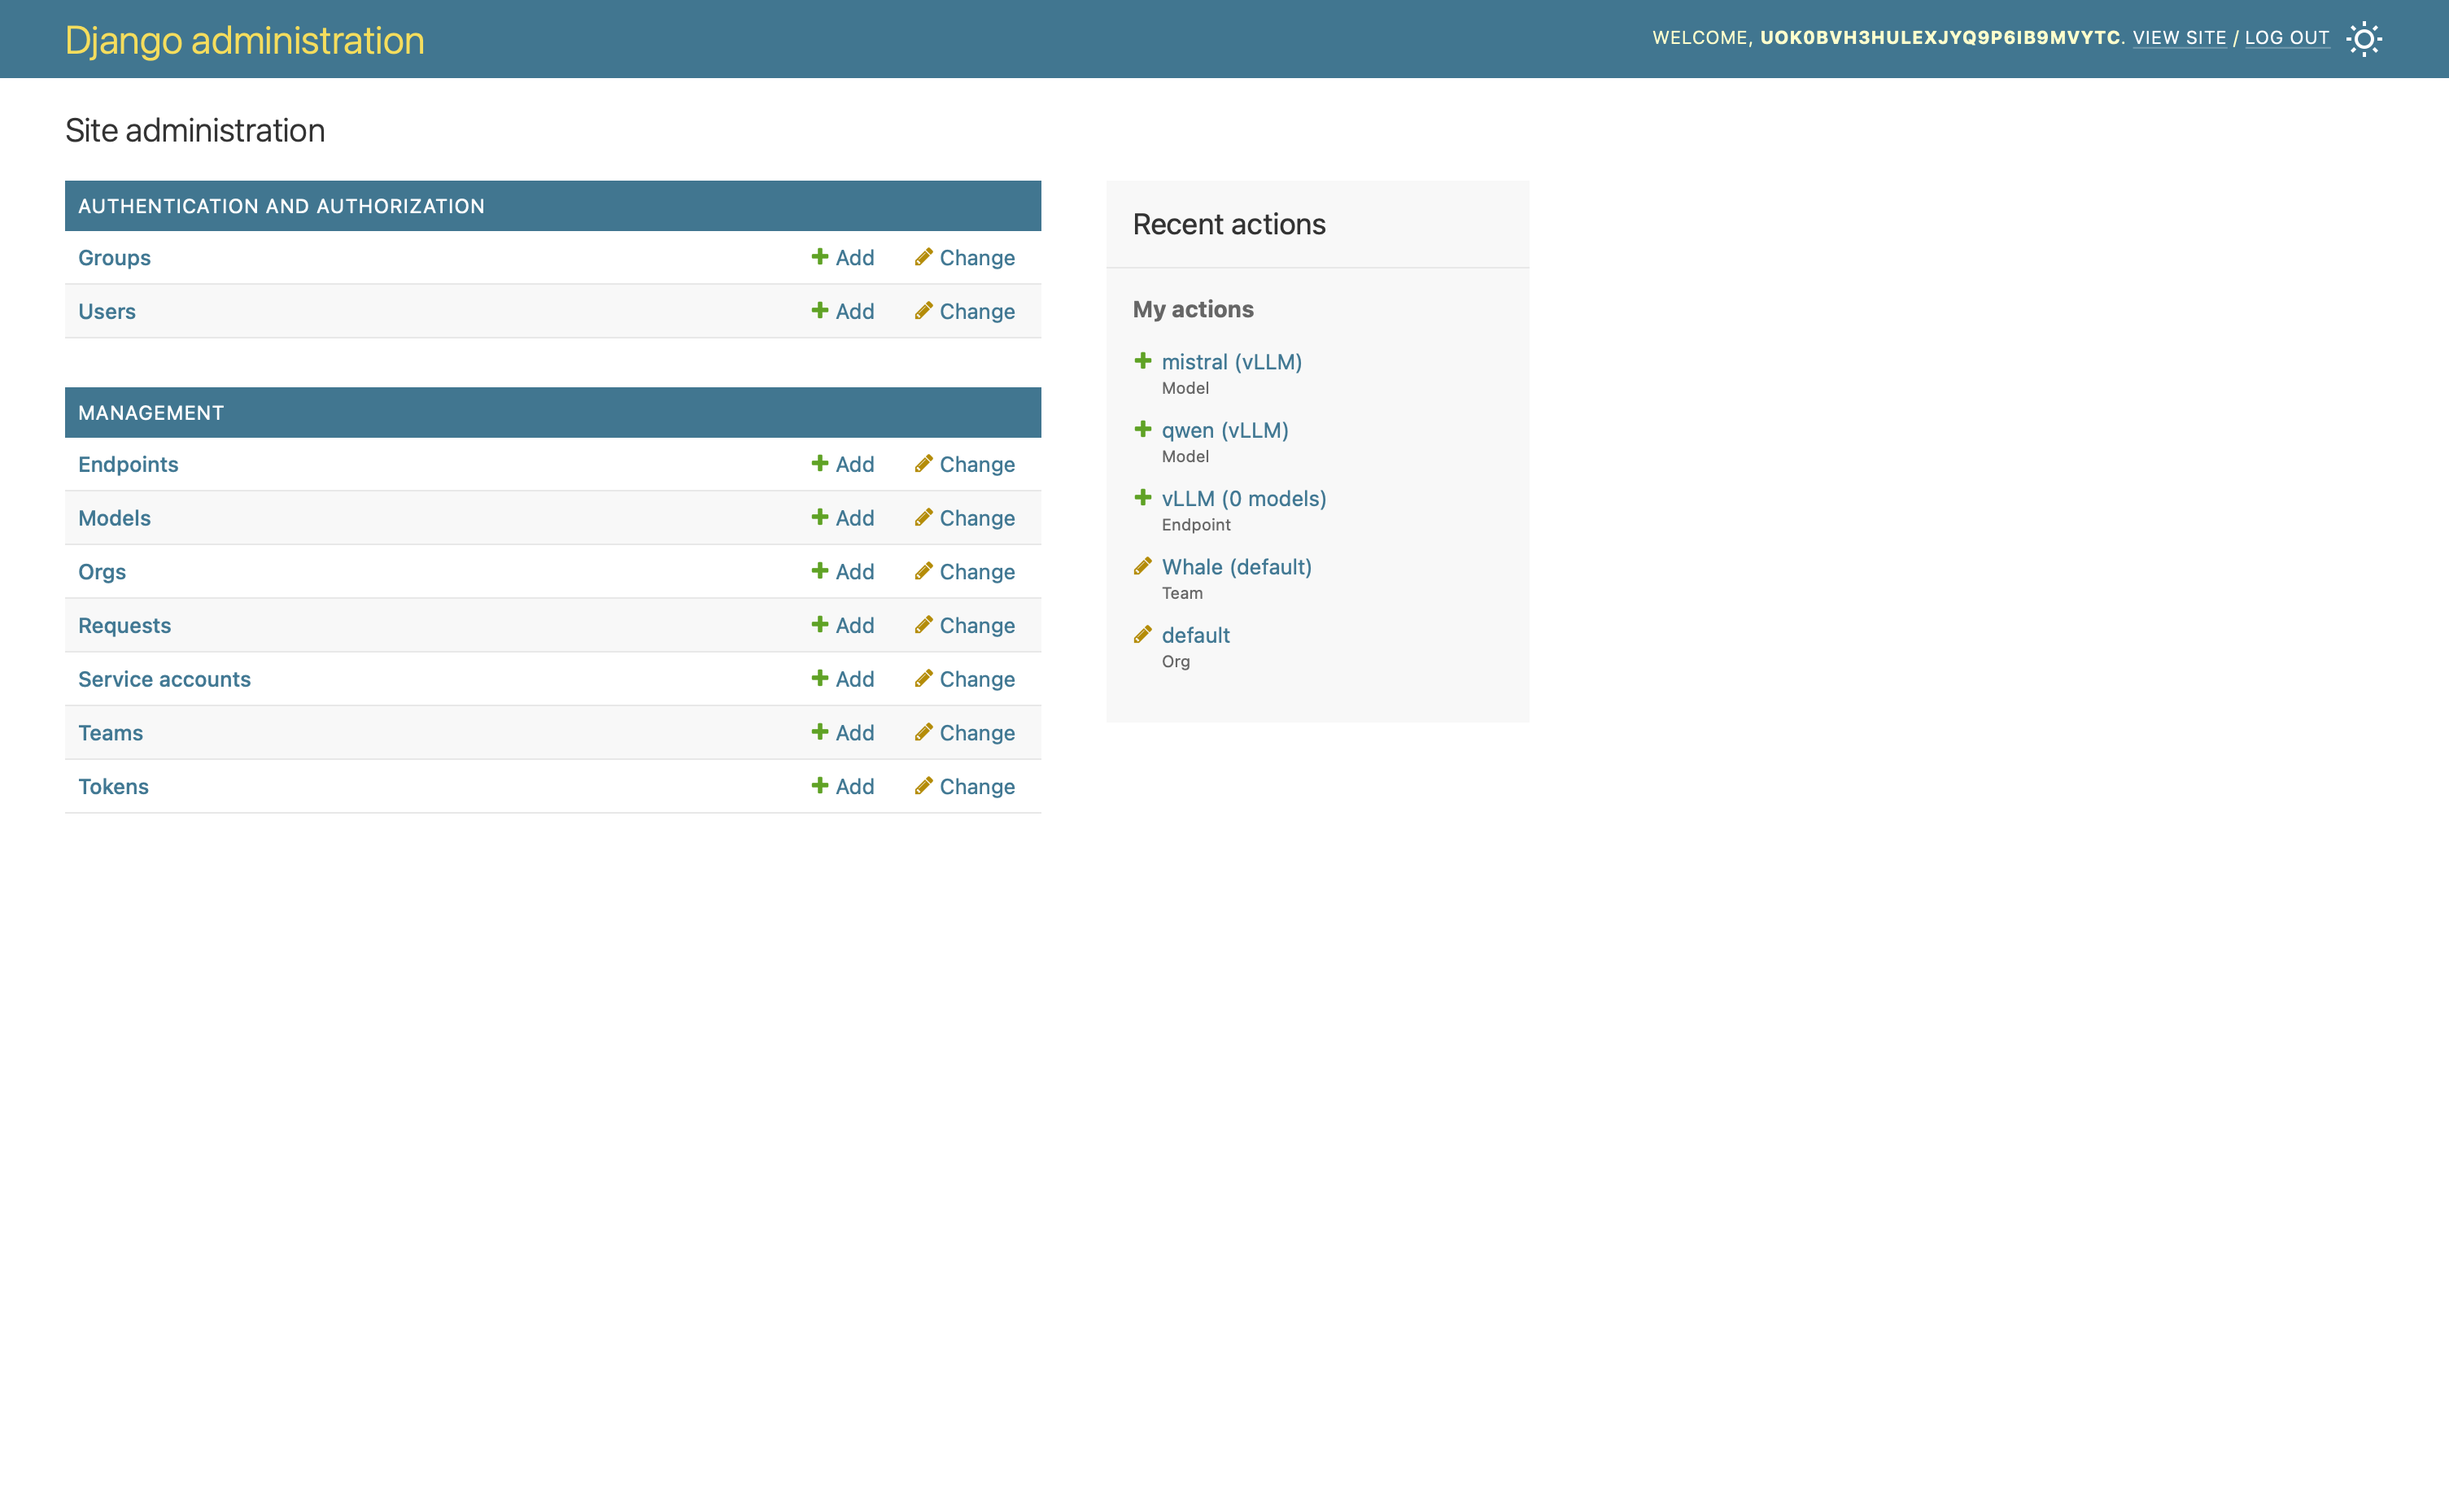
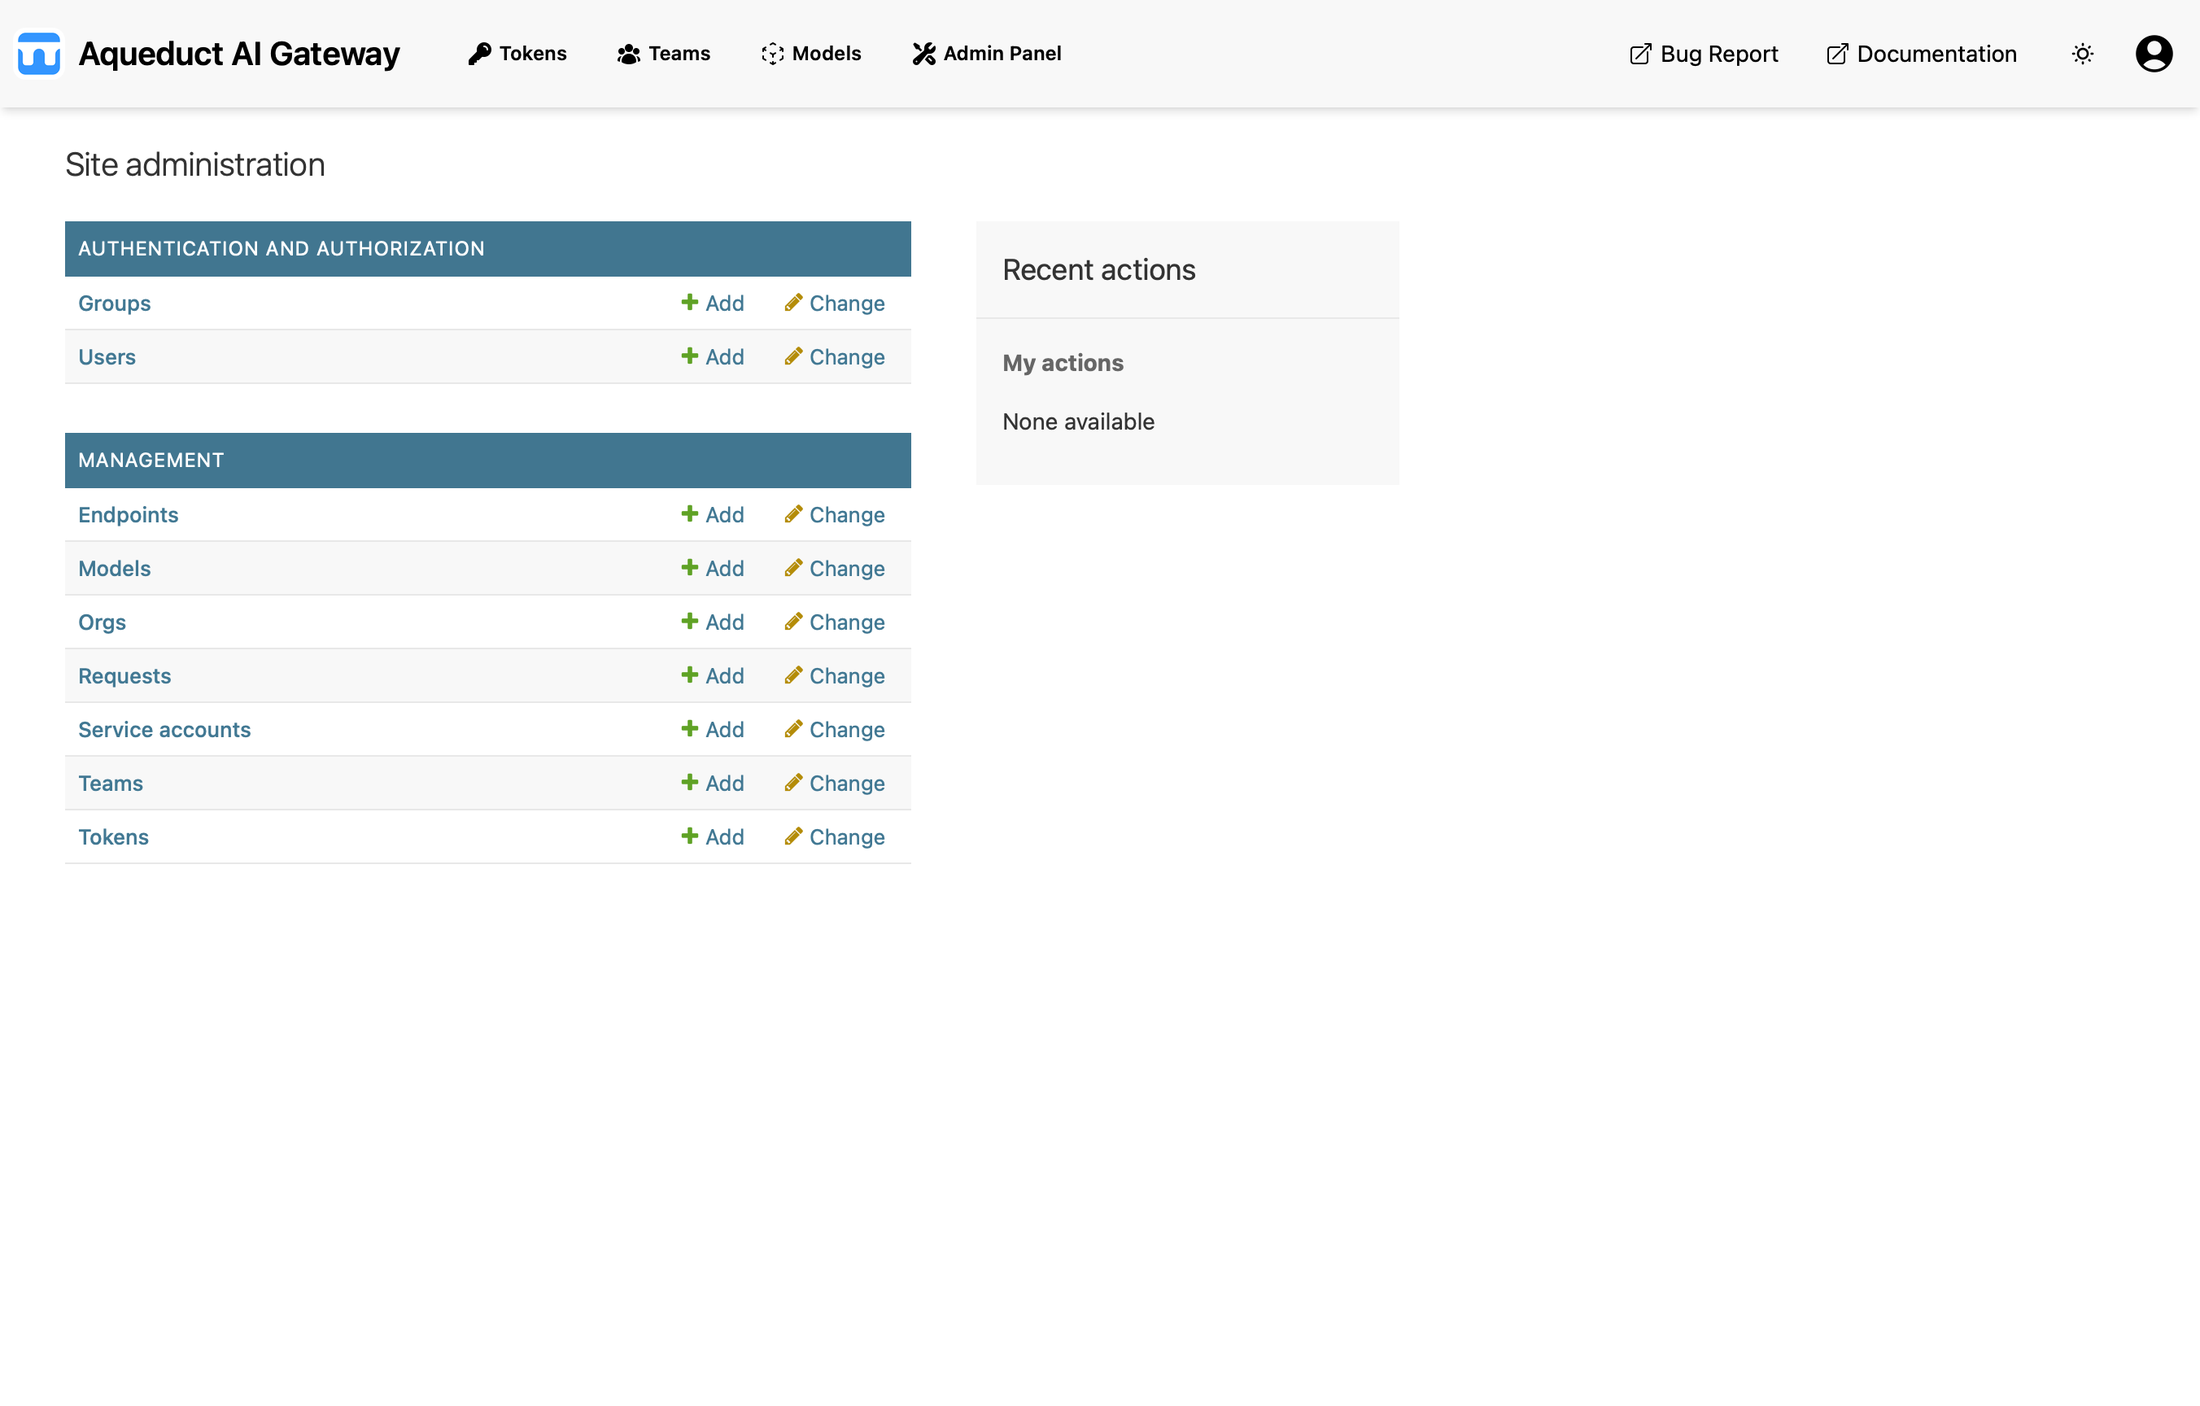
Improve django admin pages for all models Update docs admin panel screenshot

diff --git a/aqueduct/management/static/css/admin_custom.css b/aqueduct/management/static/css/admin_custom.css
@@ -1,8 +1,8 @@
 /* Admin sidebar, optional */
 header, .breadcrumbs {
     background-color: var(--darkened-bg) !important;
-    --breadcrumbs-fg: var(--header-bg);
-    --breadcrumbs-link-fg: var(--primary) 
+    --breadcrumbs-fg: var(--body-fg);
+    --breadcrumbs-link-fg: var(--link-fg)
 }
 
 header div ul {

diff --git a/aqueduct/management/templates/management/base.html b/aqueduct/management/templates/management/base.html
@@ -5,6 +5,7 @@
 <head>
     <meta charset="UTF-8">
     <title>Aqueduct AI Gateway</title>
+    <link rel="shortcut icon" type="image/png" href="{% static 'images/Aqueduct_Icon_80x80.png' %}" >
     {% include "management/_cdn.html" %}
 </head>
 <body class="h-screen bg-base-200">

diff --git a/aqueduct/management/admin.py b/aqueduct/management/admin.py
@@ -1,6 +1,8 @@
 from django.contrib import admin
 from django.contrib.auth.admin import UserAdmin as BaseUserAdmin
-from django.contrib.auth.models import User
+from django.contrib.auth.models import User, Group
+from django.urls import reverse
+from django.utils.html import format_html
 
 from .models import Org, Team, UserProfile, ServiceAccount, Token, Request, Model, Endpoint, TeamMembership
 
@@ -14,9 +16,62 @@ class ProfileInline(admin.StackedInline):
     fk_name = 'user'
 
 
+def set_user_group(queryset, group_name):
+    group, _ = Group.objects.get_or_create(name=group_name)
+    is_admin = group_name == "admin"
+    for user in queryset:
+        user.groups.clear()
+        user.groups.add(group)
+        if is_admin:
+            user.is_staff = True
+            user.is_superuser = True
+        else:
+            user.is_staff = False
+            user.is_superuser = False
+        user.save()
+
+
+@admin.action(description="Make Admin")
+def make_admin(modeladmin, request, queryset):
+    set_user_group(queryset, "admin")
+
+
+@admin.action(description="Make Org-Admin")
+def make_org_admin(modeladmin, request, queryset):
+    set_user_group(queryset, "org-admin")
+
+
+@admin.action(description="Make User")
+def make_user(modeladmin, request, queryset):
+    set_user_group(queryset, "user")
+
+
 # Define a new User admin
 class UserAdmin(BaseUserAdmin):
     inlines = (ProfileInline,)
+    list_display = ('email', 'is_staff', 'get_groups', 'request_limit', 'input_limit', 'output_limit')
+    list_select_related = ['profile']
+    actions = [make_admin, make_org_admin, make_user]
+
+    def get_groups(self, obj):
+        return ", ".join([g.name for g in obj.groups.all()])
+
+    get_groups.short_description = 'Groups'
+
+    def request_limit(self, obj) -> int:
+        return obj.profile.requests_per_minute
+
+    request_limit.short_description = "Requests per minute"
+
+    def input_limit(self, obj) -> int:
+        return obj.profile.input_tokens_per_minute
+
+    input_limit.short_description = "Input tokens per minute"
+
+    def output_limit(self, obj) -> int:
+        return obj.profile.output_tokens_per_minute
+
+    output_limit.short_description = "Output tokens per minute"
 
 
 # Re-register UserAdmin
@@ -36,15 +91,92 @@ class TeamMembershipInline(admin.TabularInline):  # or admin.StackedInline for a
 # Customize Team Admin
 @admin.register(Team)
 class TeamAdmin(admin.ModelAdmin):
-    list_display = ('name',)
+    list_display = ('name', 'org_link', 'requests_per_minute', 'input_tokens_per_minute', 'output_tokens_per_minute')
+    list_select_related = ["org"]
     search_fields = ('name',)
     inlines = [TeamMembershipInline]  # Add the inline here
+    list_filter = ['org__name']
+
+    def org_link(self, obj):
+        link = reverse("admin:management_org_change", args=[obj.org.id])
+        return format_html('<a href="{}">{}</a>', link, obj.org.name)
+
+    org_link.short_description = "Org"
 
 
-admin.site.register(Org)
-# admin.site.register(Team)
-admin.site.register(ServiceAccount)
-admin.site.register(Token)
-admin.site.register(Request)
-admin.site.register(Model)
-admin.site.register(Endpoint)
+@admin.register(Endpoint)
+class EndpointAdmin(admin.ModelAdmin):
+    list_display = ('name', 'slug', 'backend', 'url')
+
+
+@admin.register(Model)
+class ModelAdmin(admin.ModelAdmin):
+    list_display = ('name', 'endpoint_link', 'display_name', 'endpoint')
+    list_select_related = ['endpoint']
+    list_filter = ['endpoint__name']
+
+    def endpoint_link(self, obj):
+        link = reverse("admin:management_endpoint_change", args=[obj.endpoint.id])
+        return format_html('<a href="{}">{}</a>', link, obj.endpoint.name)
+
+    endpoint_link.short_description = "Endpoint"
+
+
+@admin.register(Org)
+class OrgAdmin(admin.ModelAdmin):
+    list_display = ('name', 'requests_per_minute', 'input_tokens_per_minute', 'output_tokens_per_minute')
+
+
+@admin.register(Request)
+class RequestAdmin(admin.ModelAdmin):
+    list_display = ('id', 'input_tokens', 'output_tokens', 'status_code', 'response_time_ms', 'endpoint_link', 'model_link')
+    list_filter = ['status_code', 'endpoint__name', 'model__name']
+
+    def endpoint_link(self, obj):
+        if obj.endpoint is None:
+            return ""
+        link = reverse("admin:management_endpoint_change", args=[obj.endpoint.id])
+        return format_html('<a href="{}">{}</a>', link, obj.endpoint.name)
+
+    endpoint_link.short_description = "Endpoint"
+
+    def model_link(self, obj):
+        if obj.model is None:
+            return "-"
+        link = reverse("admin:management_model_change", args=[obj.model.id])
+        return format_html('<a href="{}">{}</a>', link, obj.model.name)
+
+    model_link.short_description = "Model"
+
+@admin.register(ServiceAccount)
+class ServiceAccountAdmin(admin.ModelAdmin):
+    list_display = ('name', 'description', 'team_link')
+    list_select_related = ['team']
+    list_filter = ['team__name']
+
+    def team_link(self, obj):
+        link = reverse("admin:management_team_change", args=[obj.team.id])
+        return format_html('<a href="{}">{}</a>', link, obj.team.name)
+
+    team_link.short_description = "Team"
+
+
+@admin.register(Token)
+class TokenAdmin(admin.ModelAdmin):
+    list_display = ('name', 'expires_at', 'user_link', 'sa_link')
+    list_select_related = ['user', 'service_account', 'service_account__team']
+    list_filter = ['service_account__team__name']
+
+    def sa_link(self, obj):
+        if obj.service_account is None:
+            return "-"
+        link = reverse("admin:management_serviceaccount_change", args=[obj.service_account.id])
+        return format_html('<a href="{}">{}</a>', link, f"{obj.service_account.name} ({obj.service_account.team.name})")
+
+    sa_link.short_description = "Service Account"
+
+    def user_link(self, obj):
+        link = reverse("admin:auth_user_change", args=[obj.user.id])
+        return format_html('<a href="{}">{}</a>', link, obj.user.email)
+
+    user_link.short_description = "User"

diff --git a/aqueduct/management/models.py b/aqueduct/management/models.py
@@ -80,7 +80,7 @@ class LimitMixin(models.Model):
 
 class Org(LimitMixin, models.Model):
     """Represents an Organization."""
-    name = models.CharField(max_length=255, unique=True)
+    name = models.CharField(verbose_name="Org name", max_length=255, unique=True)
 
     def __str__(self):
         return self.name
@@ -88,7 +88,7 @@ class Org(LimitMixin, models.Model):
 
 class Team(LimitMixin, models.Model):
     """Represents a Team within an Organization."""
-    name = models.CharField(max_length=255)
+    name = models.CharField(verbose_name="Team name", max_length=255)
     description = models.TextField(blank=True)
 
     org = models.ForeignKey(
@@ -243,7 +243,7 @@ class TeamMembership(models.Model):
 
 class ServiceAccount(models.Model):
     """Represents a Service Account, typically associated with a Team."""
-    name = models.CharField(max_length=255)
+    name = models.CharField(verbose_name="Service Account name", max_length=255)
     description = models.TextField(blank=True)
     team = models.ForeignKey(
         Team,
@@ -308,7 +308,7 @@ class Token(models.Model):
     Represents an authentication token (e.g., API Key), associated with a User
     and optionally a Service Account.
     """
-    name = models.CharField(max_length=255, null=False)
+    name = models.CharField(verbose_name="Token name", max_length=255, null=False)
     # Link to the standard Django User model
     user = models.ForeignKey(
         settings.AUTH_USER_MODEL,  # Use settings.AUTH_USER_MODEL
@@ -558,7 +558,7 @@ class EndpointBackend(models.TextChoices):
 
 class Endpoint(models.Model):
     """Represents an API endpoint, likely serving multiple Models."""
-    name = models.CharField(max_length=255, unique=True)
+    name = models.CharField(verbose_name="Endpoint name", max_length=255, unique=True)
     slug = models.SlugField(max_length=255, unique=True)
 
     backend = models.CharField(
@@ -591,7 +591,7 @@ class Endpoint(models.Model):
 
 class Model(models.Model):
     """Represents a LLM model."""
-    name = models.CharField(max_length=255, unique=True)
+    name = models.CharField(verbose_name="Model name", max_length=255, unique=True)
     display_name = models.CharField(max_length=255, unique=True)
     description = models.TextField(blank=True)
     endpoint = models.ForeignKey(
